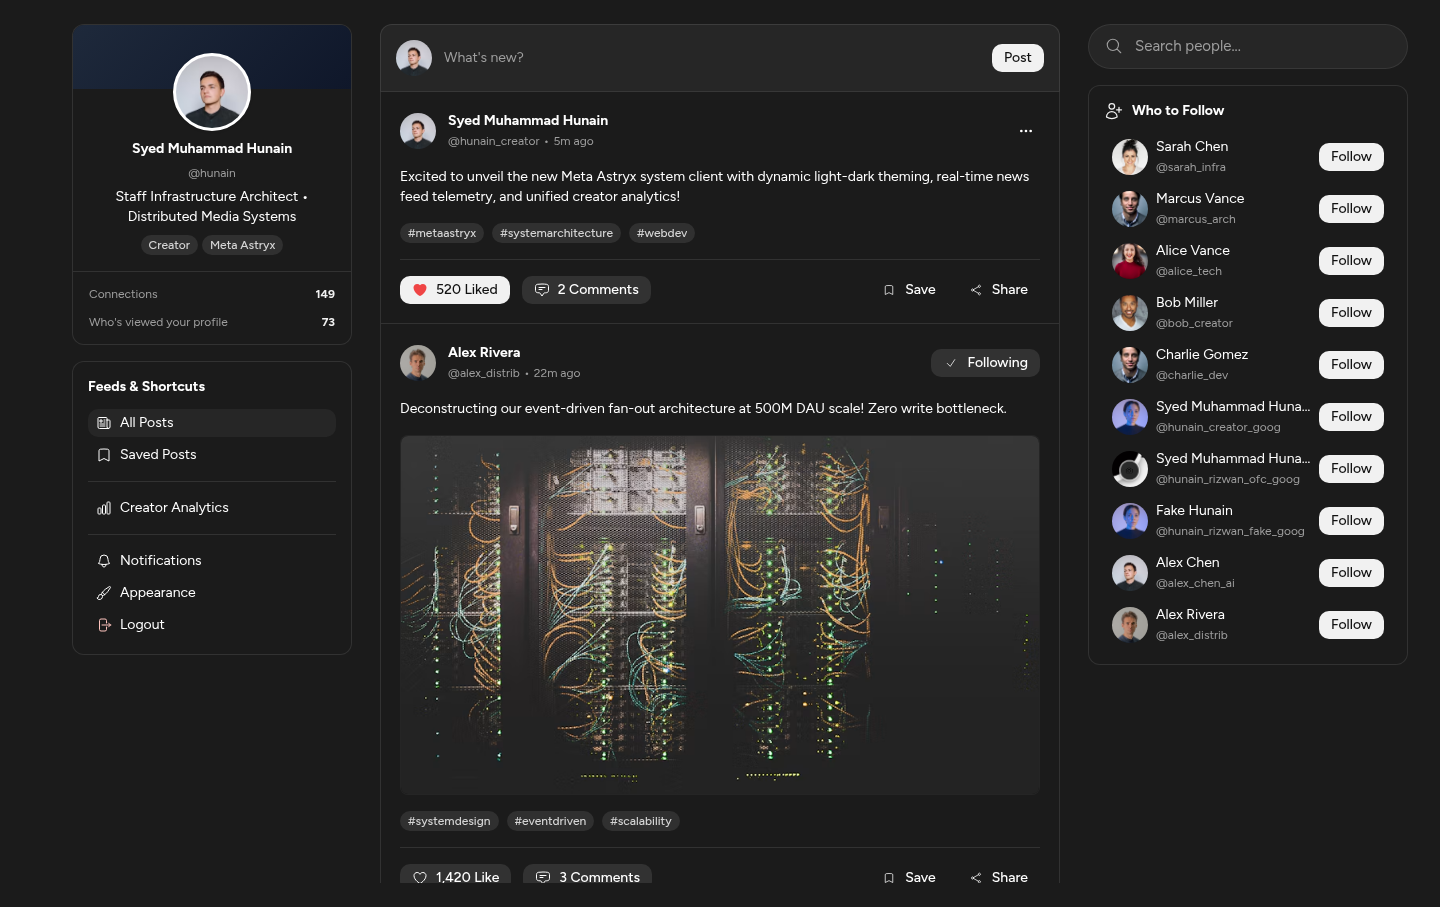
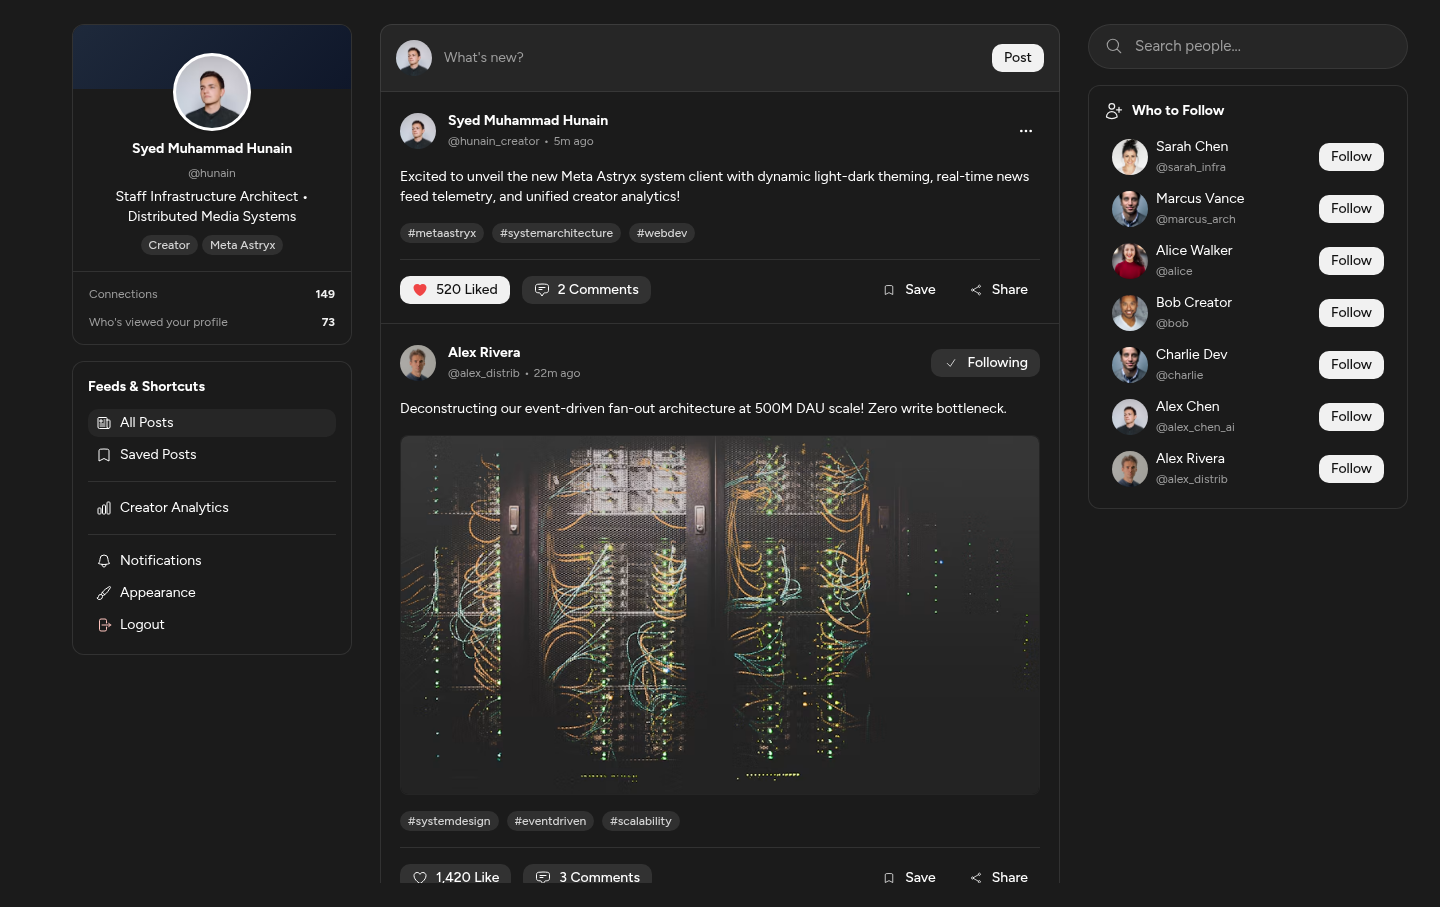
perf(frontend): route-level code splitting and vendor chunk decomposition reduces entry bundle by 75%

diff --git a/frontend/src/App.tsx b/frontend/src/App.tsx
@@ -3,14 +3,15 @@
 
 'use client';
 
-import { useState, useEffect } from 'react';
+import { useState, useEffect, lazy, Suspense } from 'react';
 import { Theme } from '@astryxdesign/core/theme';
 import { themes, defaultThemeSlug } from './astryx-themes';
 import { AuthProvider } from './context/AuthContext';
 import { AnalyticsProvider } from './context/AnalyticsContext';
 import { useAuth } from './context/useAuth';
-import LoginCardPage from './app/login-card/page';
-import NewsFeedPage from './app/feed/NewsFeedPage';
+
+const LoginCardPage = lazy(() => import('./app/login-card/page'));
+const NewsFeedPage = lazy(() => import('./app/feed/NewsFeedPage'));
 
 type ThemeMode = 'dark' | 'light';
 
@@ -18,7 +19,11 @@ function AppContent() {
   const { isAuthenticated, currentUser } = useAuth();
 
   if (!isAuthenticated) {
-    return <LoginCardPage />;
+    return (
+      <Suspense fallback={null}>
+        <LoginCardPage />
+      </Suspense>
+    );
   }
 
   return (
@@ -33,10 +38,12 @@ function AppContent() {
     >
       {/* Persistent 3-Column Shell Area */}
       <main>
-        <NewsFeedPage
-          key={currentUser?.id}
-          currentUser={currentUser || undefined}
-        />
+        <Suspense fallback={null}>
+          <NewsFeedPage
+            key={currentUser?.id}
+            currentUser={currentUser || undefined}
+          />
+        </Suspense>
       </main>
     </div>
   );

diff --git a/frontend/vite.config.ts b/frontend/vite.config.ts
@@ -15,14 +15,17 @@ export default defineConfig({
           if (id.includes('node_modules/react/') || id.includes('node_modules/react-dom/')) {
             return 'vendor-react'
           }
-          if (id.includes('node_modules/@astryxdesign/')) {
-            return 'vendor-astryx'
-          }
-          if (id.includes('node_modules/recharts/') || id.includes('node_modules/d3-')) {
-            return 'vendor-charts'
-          }
-          if (id.includes('node_modules/lucide-react/')) {
+          if (id.includes('@heroicons')) {
             return 'vendor-icons'
+          }
+          if (id.includes('@astryxdesign/theme-')) {
+            return 'vendor-astryx-theme'
+          }
+          if (id.includes('@astryxdesign/')) {
+            return 'vendor-astryx-core'
+          }
+          if (id.includes('recharts') || id.includes('d3-')) {
+            return 'vendor-charts'
           }
         },
       },
